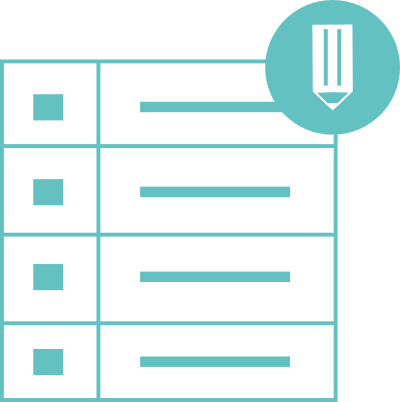
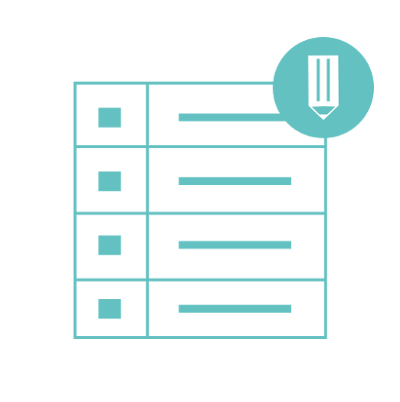
added homepage image

Changed region(s): [[0.0, 0.0, 1.0, 1.0], [0.06, 0.8657, 0.18, 0.9552]]

diff --git a/app/styles/main.less b/app/styles/main.less
@@ -291,10 +291,7 @@ blockquote p:after, q:after { content: '\201D' }
 
 header nav li {
 	display: inline-block;
-}
-
-header nav li + li {
-	margin-left: 1em;
+	margin-right: 1em;
 }
 
 header nav a, header nav a:visited {
@@ -765,6 +762,10 @@ input[type="checkbox"], input[type="radio"] {
 	font-weight: normal;
 }
 
+.add-symptoms {
+	margin-bottom: 2em;
+}
+
 .add-symptoms * + div {
 	margin-top: @v-space/2;
 }
@@ -864,9 +865,9 @@ li.handle {
 */
 
 button, a[role="button"], input[type="submit"], input[type="button"], a.button {
-	background: @red-color;
+	background: @blue-color;
 	color: @font-color-light;
-	padding: @slim-spacing/2 @slim-spacing*3;
+	padding: @slim-spacing @slim-spacing*3;
 	border: 0;
 	cursor: pointer;
 	display: inline-block;
@@ -878,6 +879,7 @@ button, a[role="button"], input[type="submit"], input[type="button"], a.button {
 	.transition-basic(0.5s);
 	.border-radius;
 	vertical-align: middle;
+	line-height: 1;
 }
 
 a.button {
@@ -1147,17 +1149,18 @@ address {
 	background: #fff; 
 	color: @font-color;
 	border-radius: 20px;
-	width: 30px;
-	height: 30px;
-	line-height: 30px;
+	width: 20px;
+	height: 20px;
+	line-height: 20px;
 	font-style: normal;
 	font-weight: bold;
 	text-align: center;
-	position: absolute;
-	top: -9px;
-	right: -9px;
 	margin: 0;
 	box-shadow: -2px 2px 0 @font-color;
+	position: relative;
+	top: -1em;
+	left: -0.25em;
+	font-size: 0.8em;
 }
 
 /**
@@ -1180,6 +1183,10 @@ address {
 	.box-sized;
 	padding: @v-space/2 @v-space @v-space/4;
 	margin: 0;
+}
+
+[role="banner"] nav {
+	padding: 0;
 }
 
 [role="banner"] nav {
@@ -1258,7 +1265,7 @@ address {
 .content {
 	max-width: 820px;
 	margin: 0 auto;
-	padding-top: @v-space;
+	padding-top: @v-space * 2;
 }
 
 .yellow {
@@ -1273,6 +1280,7 @@ ol h3 {
 	color: #fff;
 	padding: @v-space/2 @v-space;
 	margin: 0;
+	margin-top: @v-space * 2;
 	font-size: 0;
 	background: @font-color;
 	.box-sized;
@@ -1424,12 +1432,16 @@ iframe {
 }
 
 .introduction img {
-	width: 70%;
+	width: 60%;
 }
 
 .introduction li {
 	padding: 0 1em;
 	.box-sized;
+}
+
+.introduction h2 {
+	margin-top: 0.25em;
 }
 
 /**

diff --git a/app/views/home.html b/app/views/home.html
@@ -11,15 +11,15 @@
           <img src="images/howitworks_1.png" alt="" />
           <h2>Info &amp; Advice</h2>
           <p>Doc Ready has info and advice about what to expect and how to plan speaking to a GP about your mental health.</p>
-          <p><a href="#/advice">Take a look</a></p>
+          <p><a class="button" href="#/advice">Take a look</a></p>
         </div>
       </li>
       <li style="width: 50%">
         <div>
           <img src="images/howitworks_2.png" alt="" />
           <h2>Build Your Checklist</h2>
-          <p>It can be awkward, scary or embarrassing talking about your mental health. Doc Ready helps you to plan what you're going to say to your doctor. Choose from lists of things you might want to talk about or add your own.</p>
-          <p><a href="#/picker">Get started</a></p>
+          <p>It can be awkward, scary or embarrassing talking about your mental health. Doc Ready helps you to plan what you're going to say to your doctor.</p>
+          <p><a class="button" href="#/picker">Get started</a></p>
         </div>
       </li>
     </ol>
